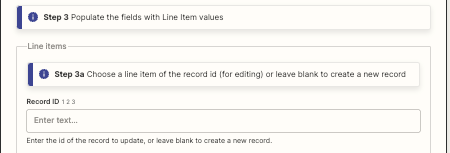
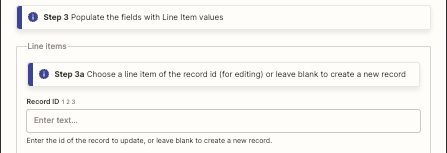
image

diff --git a/docs/Actions/Create_Update_Fluxx_Records.md b/docs/Actions/Create_Update_Fluxx_Records.md
@@ -30,10 +30,8 @@ Example of Non-Line Item value: 608. This could be the user id of the user to us
     * A new, empty dropdown will appear after you fill in the existing field(s). Use one dropdown per field that you want to populate.
 
   * **Step 3: Populate the fields with Line Item values**
-
- <p align="center"><img alt="Record Id (or blank to create new record)" src="../../img/line_item_record_id.png" width="450px" height="153px"></p>
-
     * **Step 3a: Choose a line item of the record id (for editing) or leave blank to create a new record**
+     <p align="center"><img alt="Record Id (or blank to create new record)" src="../../img/line_item_record_id.png" width="447px" height="153px"></p>
       * Enter the Line Items for the id of the record to update, or leave blank to create new records instead of updating existing ones.
     * **Step 3b: Choose values for any fields chosen above**
       * Select Line Items (or static values) to match up with the list of input fields in Step 2. Only ten Line Item fields & values can be chosen.
